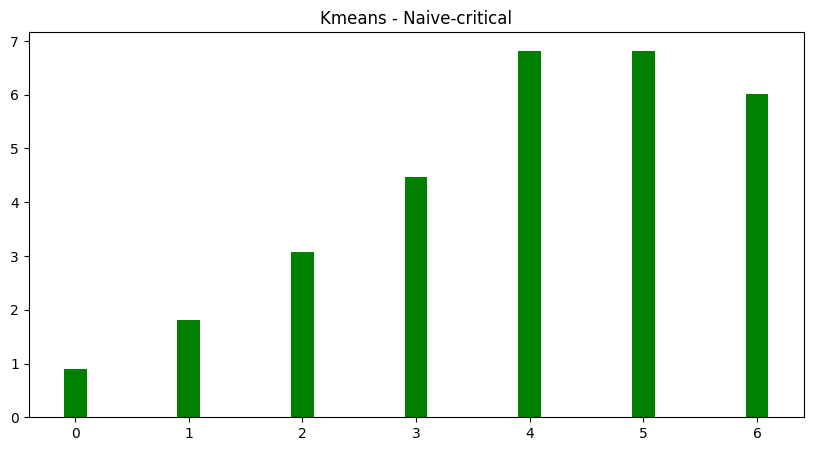
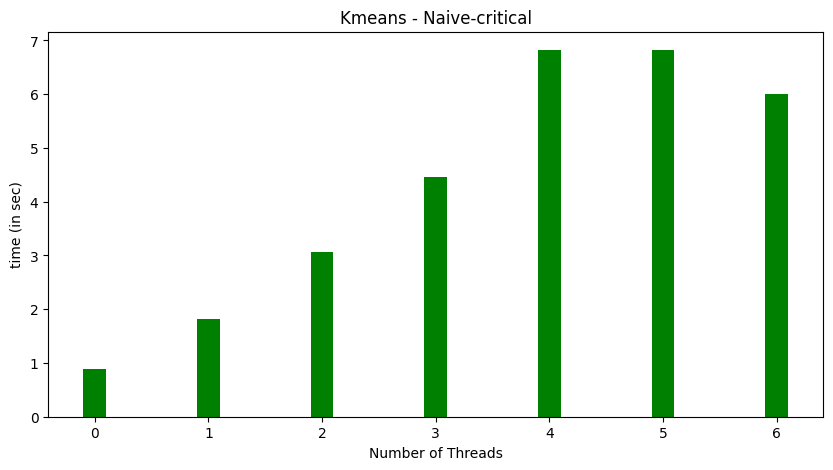
plots with labels

Changed region(s): [[0.0, 0.0, 1.0, 0.9933], [0.9225, 0.1863, 0.9533, 0.2173]]

diff --git a/Lab3/plot_critical.py b/Lab3/plot_critical.py
@@ -37,7 +37,9 @@ def plot_time_speedup():
         legend_.append(plt.bar(np.arange(len(threads)) -0.3+index*0.1 , values_time, color =colors[index],
         width =0.1))
     plt.xticks(np.arange(len(threads)) , threads)
-    
+    plt.xlabel("Number of Threads")
+    plt.ylabel("time (in sec)")
+    plt.title("execution time per lock type")
     plt.legend((legend_[0], legend_[1], legend_[2], legend_[3], legend_[4], legend_[5], legend_[6]), ("nosync","pthread-mutex", "pthread-spinlock", "tas", "ttas", "array-based", "clh-queue"))
     plt.savefig("plot_time", bbox_inches="tight")
     fp.close() 

diff --git a/Lab3/plot.py b/Lab3/plot.py
@@ -32,7 +32,10 @@ def plot_time_speedup():
         plt.title(str(lock))
         bar1_speedup = plt.bar(np.arange(len(threads)), values_time, color ='green',
             width =0.2)
+        plt.xlabel("Number of Threads")
+        plt.ylabel("time (in sec)")
         plt.savefig(str(lock)+"_time", bbox_inches="tight")
+
     fp.close() 
         
         #values_speedup = list(data_speedup.values())
